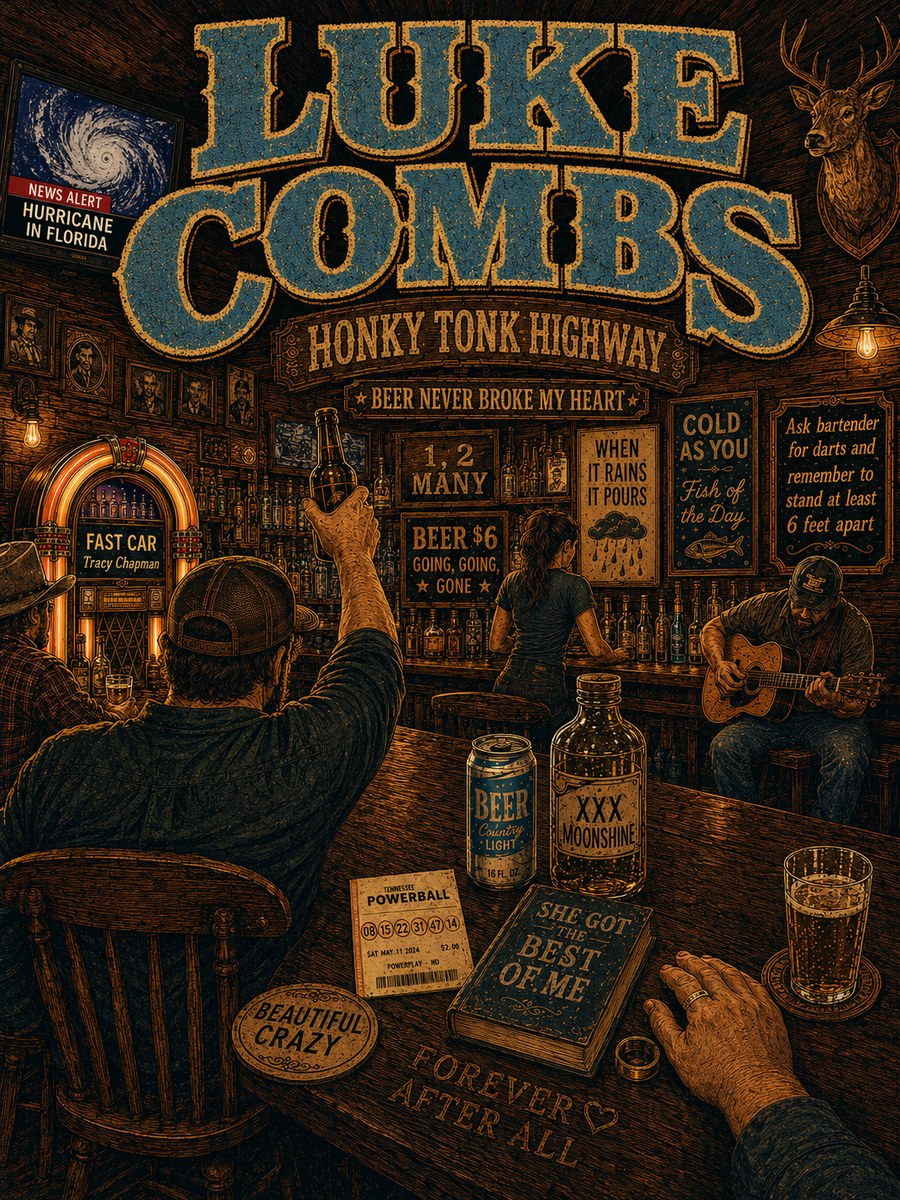
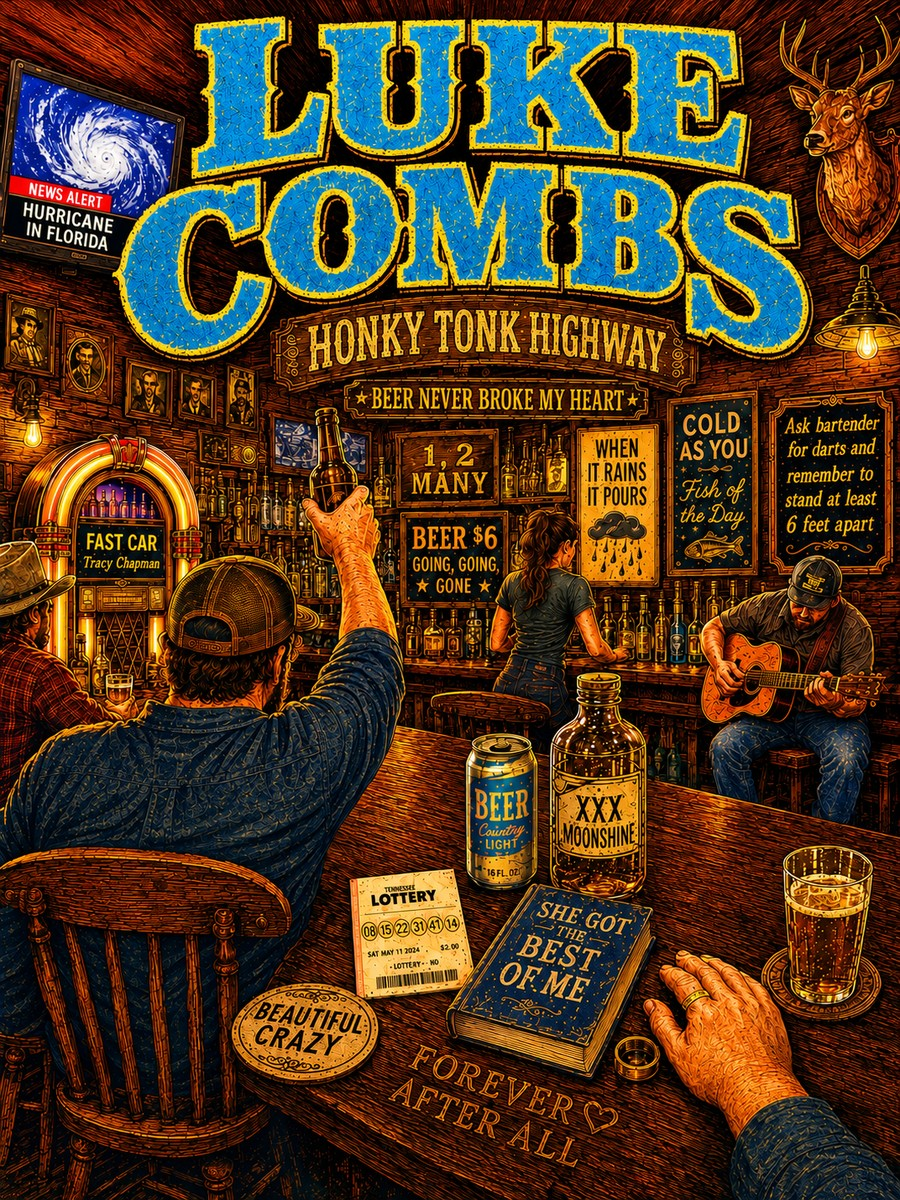
v254: Luke Combs - updated this morning, never deployed until now
Found by comparing every source PNG's mtime against the commit date of its
live jpg. The source was updated at 03:59 today; the live file was still from
v233 on Aug 30. It slipped because it landed in the same batch as Tim McGraw
and only Tim McGraw got mentioned.

The real change: the lottery ticket on the table read POWERBALL, a registered
lottery brand, and now reads LOTTERY. Same class as the Rolling Stones ticket
in the Maroon 5 poster - a real third-party mark printed on a prop with no
reason to be there. Colour is also richer and the title blue is brighter.

One thing left in place deliberately, though it trips rule 4: the jukebox card
reads FAST CAR / Tracy Chapman. Rule 4 says no other artist's name on a poster
that is not theirs - but this is not borrowed shorthand, it is accurate
attribution. Fast Car is a Tracy Chapman song that Combs actually recorded, and
crediting the writer is more respectful than omitting her, not less. Worth
noting as the exception that proves the rule: the test is whether the name is
doing honest work or standing in for something we did not want to draw.

577 KB.

Claude-Session: https://claude.ai/code/session_012avjdYG8yRCMZ3uJswRWwC

diff --git a/index.html b/index.html
@@ -911,7 +911,7 @@ function eraOf(v){ return ERA[v.id]||'neon'; }
    page arrives with ?open=, so the lookup returned '0' and every plate URL was busted
    with ?v=0 forever - an updated plate would never reach anyone who had opened that
    sheet once. Kept in step with the printed build tag by the release step. */
-var SFSBUILD='v253';
+var SFSBUILD='v254';
 var CARDART={"adele":{"o":"#F4A330"},"arianagrande":{"o":"#FFF6E0","l":1},"ate":{"o":"#DAA459"},"beatles":{"o":"#FFF6E0","l":1},"beyonce":{"o":"#FDB728"},"biggie":{"o":"#FDC472"},"billieeilish":{"o":"#B9C709"},"billyjoel":{"o":"#DBB17D"},"bonjovi":{"o":"#FFF6E0","l":1},"bowie":{"o":"#F7AF7C"},"brunomars":{"o":"#FEA928"},"carrieunderwood":{"o":"#D9B87A"},"ccr":{"o":"#F2C772"},"chrisstapleton":{"o":"#F2BA7D"},"codyjohnson":{"o":"#85C9EB"},"coldplay":{"o":"#E9BA87"},"dmb":{"o":"#2A1305"},"dualipa":{"o":"#A3ABC1"},"eagles":{"o":"#261C12"},"edsheeran":{"o":"#ECAB84"},"ellalangley":{"o":"#F1987E"},"eminem":{"o":"#D1B99F"},"faithhill":{"o":"#F3A63D"},"fleetwoodmac":{"o":"#BEC5C8"},"foo":{"o":"#F69F6D"},"fthc":{"o":"#3D3717"},"gratefuldead":{"o":"#FFF6E0","l":1},"greenday":{"o":"#CEB799"},"grunge90s":{"o":"#EFC973"},"harrystyles":{"o":"#F99B37"},"hendrix":{"o":"#FFF6E0","l":1},"jasonaldean":{"o":"#EAAE5F"},"jellyroll":{"o":"#301407"},"justintimberlake":{"o":"#B1C1D3"},"katyperry":{"o":"#3DC2D8"},"kennychesney":{"o":"#F6C587"},"kidstoybox":{"o":"#002848"},"ladygaga":{"o":"#FFBD46"},"laineywilson":{"o":"#FFF6E0","l":1},"ledzeppelin":{"o":"#E6AE57"},"lukebryan":{"o":"#332818"},"lukecombs":{"o":"#F19F31"},"maroon5":{"o":"#642F09"},"metallica":{"o":"#EABE95"},"morganwallen":{"o":"#DB9D94"},"mv_action":{"o":"#F0AD51"},"mv_animated":{"o":"#FFF6E0","l":1},"mv_comedy":{"o":"#FFF6E0","l":1},"mv_crime":{"o":"#F0AF37"},"mv_drama":{"o":"#DCA969"},"mv_fantasy":{"o":"#FAAA41"},"mv_horror":{"o":"#DBC27D"},"mv_romance":{"o":"#FFF6E0","l":1},"mv_scifi":{"o":"#26BDF5"},"mv_sports":{"o":"#FFF6E0","l":1},"mv_superhero":{"o":"#1C1B26"},"mv_war":{"o":"#1F150C"},"nirvana":{"o":"#CACACB"},"oasis":{"o":"#DDBA92"},"onedirection":{"o":"#F4A62D"},"pearljam":{"o":"#FFF6E0","l":1},"postmalone":{"o":"#FBA874"},"queen":{"o":"#F1BE78"},"rhcp":{"o":"#FFF6E0","l":1},"rihanna":{"o":"#BBAB97"},"selenagomez":{"o":"#FFF6E0","l":1},"shaboozey":{"o":"#DEB177"},"smashingpumpkins":{"o":"#BCAEC2"},"springsteen":{"o":"#E6A59C"},"stones":{"o":"#FFF6E0","l":1},"stp":{"o":"#FFF6E0","l":1},"summerbeach":{"o":"#FFF6E0","l":1},"taylorswift":{"o":"#D4A26D"},"thewho":{"o":"#F0C382"},"timmcgraw":{"o":"#251C0A"},"tompetty":{"o":"#FFF6E0","l":1},"tv_binge":{"o":"#D9B87A"},"tv_cartoon":{"o":"#171F6C"},"tv_gameshow":{"o":"#000B4D"},"tv_growingup":{"o":"#86B6F7"},"tv_oldschool":{"o":"#D9B87A"},"tv_scifi":{"o":"#66BBF7"},"tv_sitcom":{"o":"#C8AE93"},"u2":{"o":"#7EC0F2"},"zachbryan":{"o":"#191F15"}};
 function coverHTML(v,label){
  var e=eraOf(v);
@@ -1489,4 +1489,4 @@ brandBarState();
  setTimeout(go, 1500);
 })();
 </script>
-<div id="buildtag">v253</div><style>#buildtag{position:fixed;left:5px;bottom:3px;z-index:99999;font:700 9px/1 system-ui,sans-serif;color:rgba(255,255,255,.30);pointer-events:none;letter-spacing:.5px}</style></body></html>
+<div id="buildtag">v254</div><style>#buildtag{position:fixed;left:5px;bottom:3px;z-index:99999;font:700 9px/1 system-ui,sans-serif;color:rgba(255,255,255,.30);pointer-events:none;letter-spacing:.5px}</style></body></html>

diff --git a/sw.js b/sw.js
@@ -1,4 +1,4 @@
-var CACHE='sfs-v253';
+var CACHE='sfs-v254';
 /* IMPORTANT: do NOT precache the HTML documents. If the app shell is cached, an installed PWA
    can launch straight from cache and bypass Cloudflare Access. Keeping only static assets here
    forces every page launch to hit the network, so the Access login is always enforced. */
